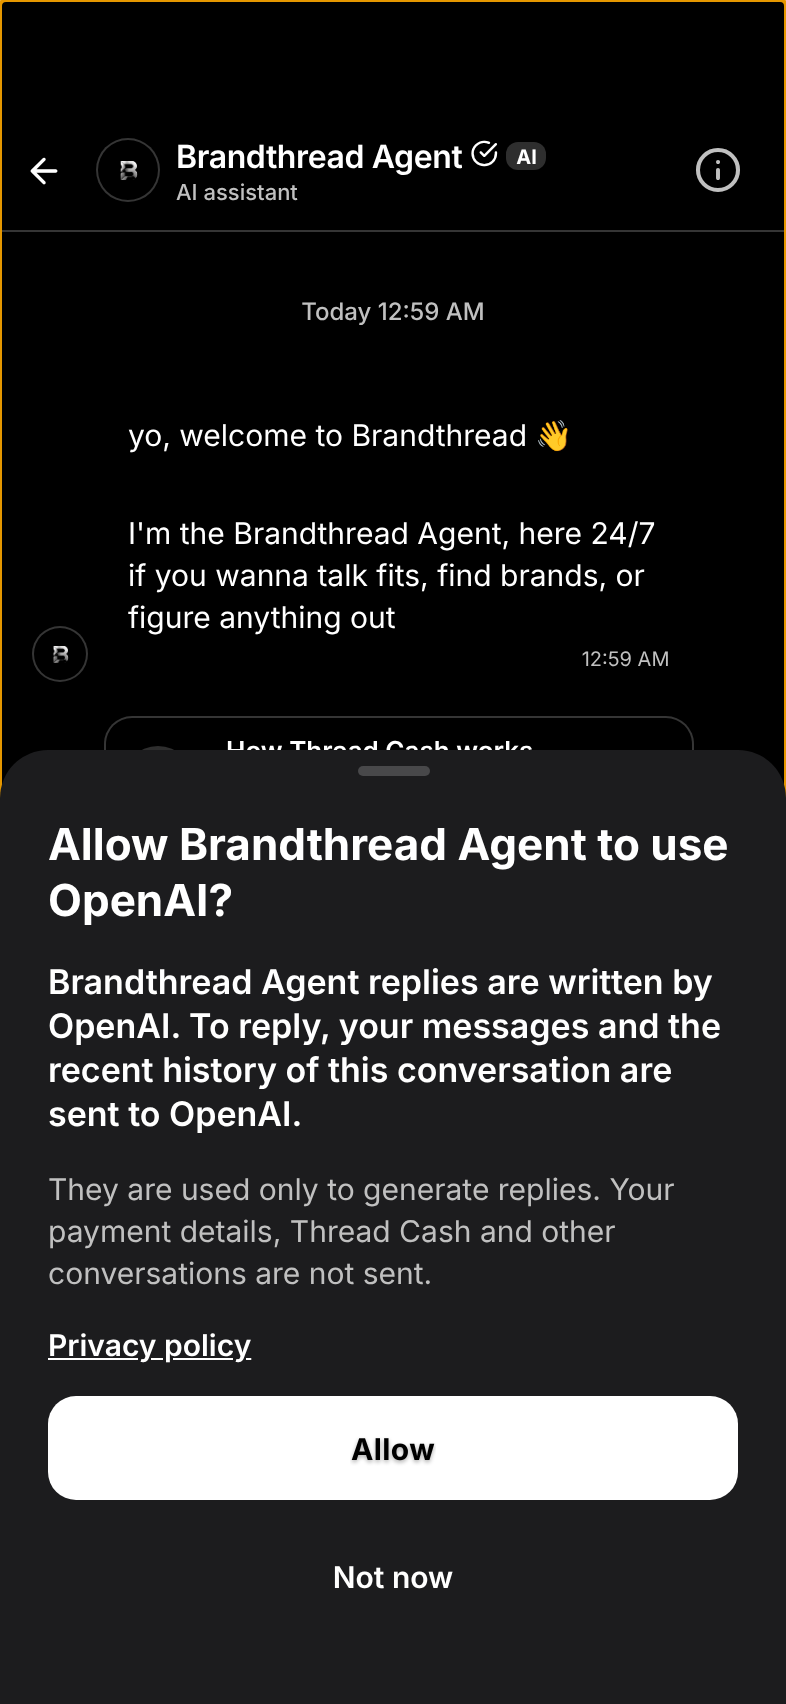
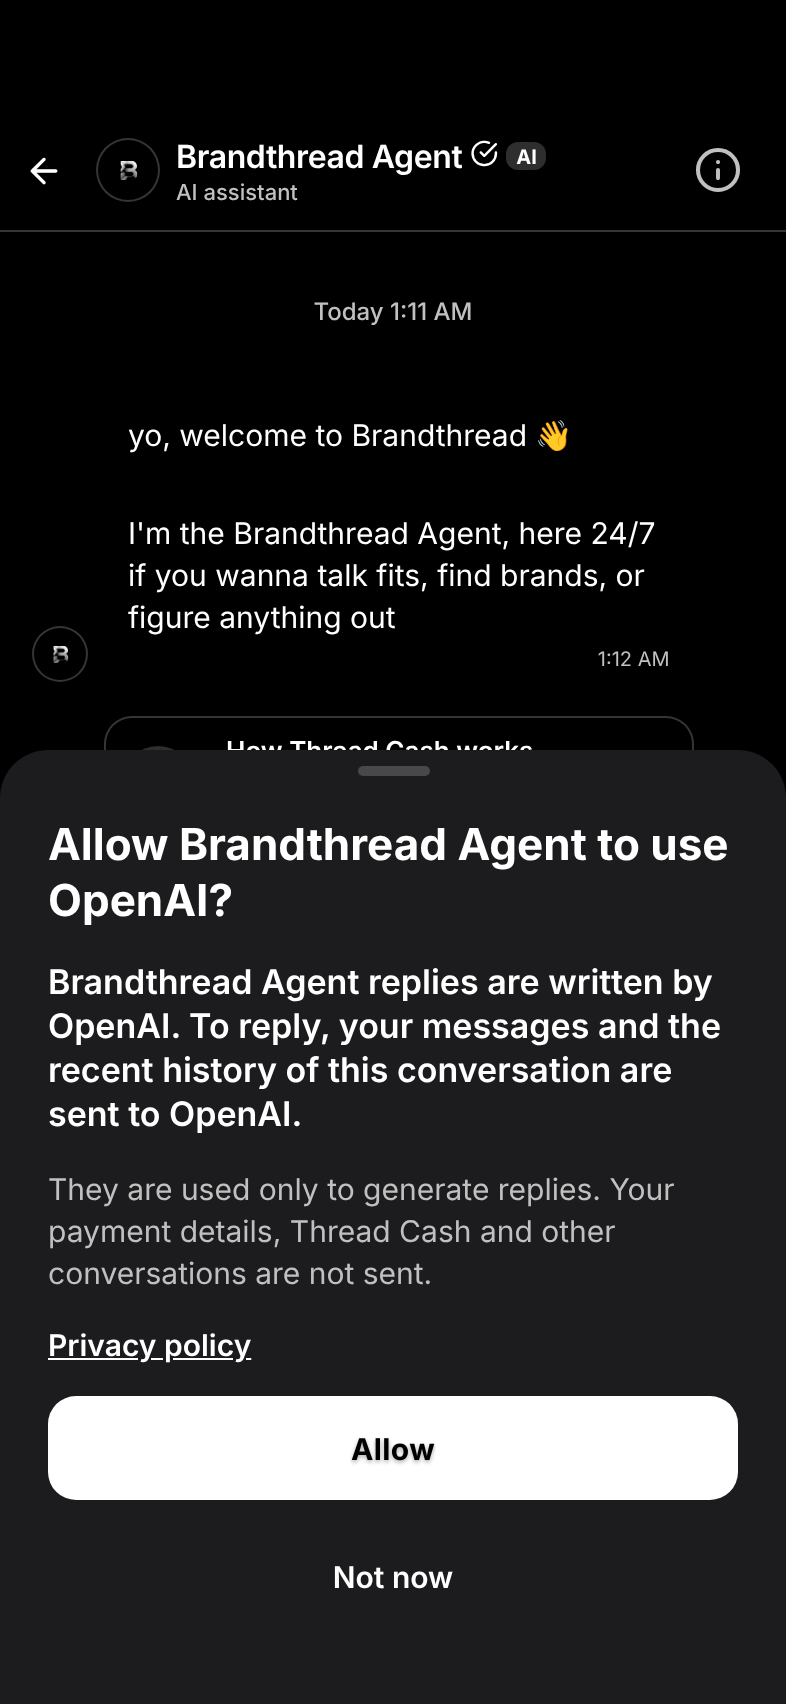
AI consent sheet: drop the web focus ring on the modal root; re-capture screenshots
Claude-Session: https://claude.ai/code/session_01Mumom7BCLJUmjSyqF9BKnN

diff --git a/artifacts/mobile/components/AiConsentSheet.tsx b/artifacts/mobile/components/AiConsentSheet.tsx
@@ -14,7 +14,7 @@
  *   {aiConsent.sheet}
  */
 import React, { useCallback, useRef, useState } from 'react';
-import { Modal, Pressable, StyleSheet, Text, View } from 'react-native';
+import { Modal, Platform, Pressable, StyleSheet, Text, View } from 'react-native';
 import { useSafeAreaInsets } from 'react-native-safe-area-context';
 import { useRouter } from 'expo-router';
 import { useAuth } from '@clerk/expo';
@@ -29,6 +29,9 @@ import {
 
 const SHEET_BG = '#1C1C1E';
 const SILVER = '#C0C0C0';
+// react-native-web focuses the modal root on open; hide that frame-wide ring
+// (buttons keep their own focus styles for keyboard users).
+const NO_FOCUS_RING = Platform.OS === 'web' ? ({ outlineStyle: 'none', outlineWidth: 0 } as object) : null;
 
 interface Options {
   /** Preview / demo conversation: no backend, keep the answer in memory only. */
@@ -120,10 +123,10 @@ export function AiConsentSheet({ visible, saving, error, onAllow, onNotNow }: Sh
   const router = useRouter();
   return (
     <Modal visible={visible} transparent animationType="slide" onRequestClose={onNotNow} statusBarTranslucent>
-      <View style={s.root}>
-        <Pressable style={StyleSheet.absoluteFill} onPress={onNotNow} accessibilityLabel={COPY.notNow} />
+      <View style={[s.root, NO_FOCUS_RING]}>
+        <Pressable style={[StyleSheet.absoluteFill, NO_FOCUS_RING]} onPress={onNotNow} accessibilityLabel={COPY.notNow} focusable={false} />
         <View
-          style={[s.sheet, { paddingBottom: Math.max(insets.bottom, SP.md) + SP.sm }]}
+          style={[s.sheet, NO_FOCUS_RING, { paddingBottom: Math.max(insets.bottom, SP.md) + SP.sm }]}
           accessibilityViewIsModal
           testID="ai-consent-sheet"
         >
